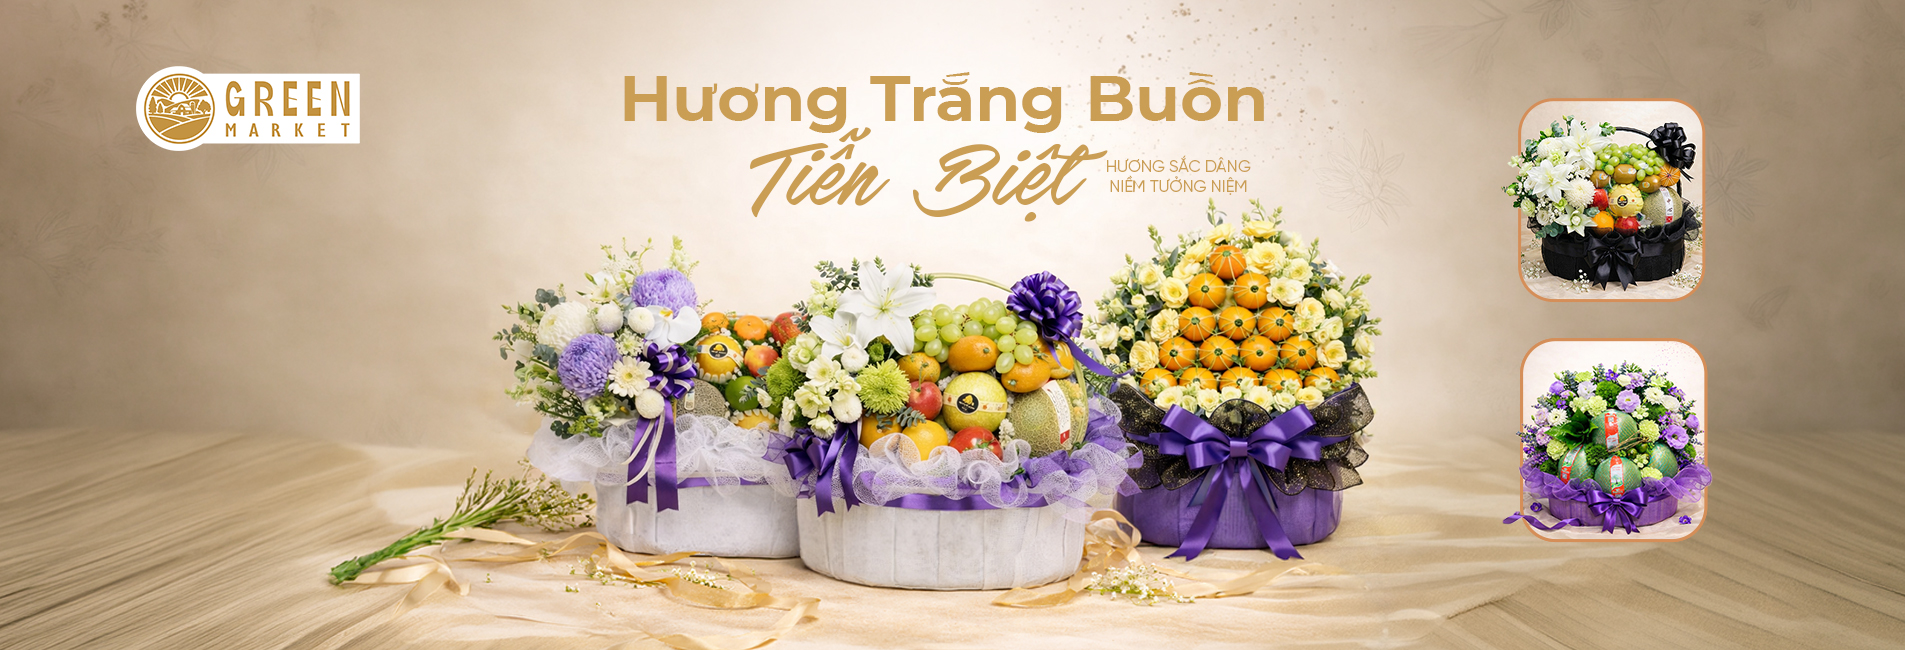
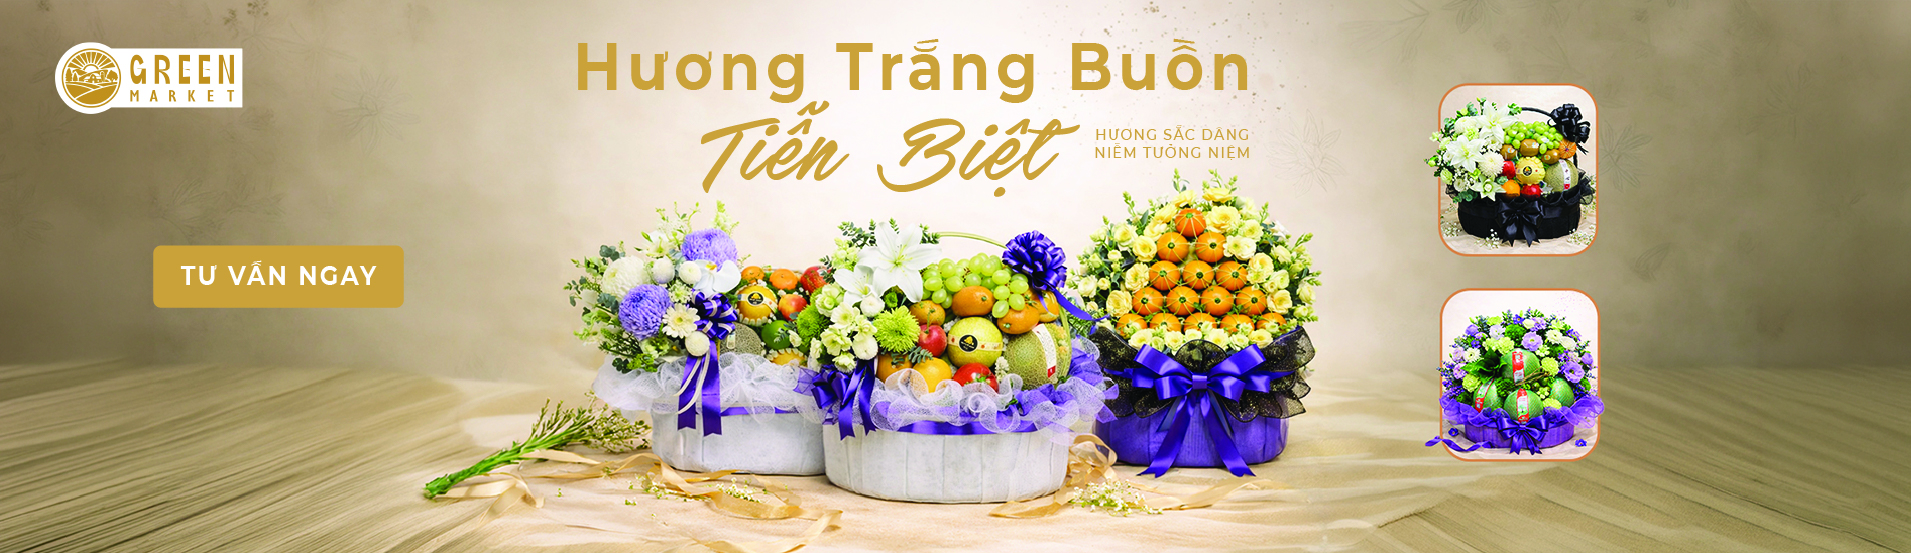
update img cover

diff --git a/index.html b/index.html
@@ -143,10 +143,12 @@
                         </div> -->
                     </a>
 
-                    <div class="carousel-item">
-                        <img src="https://images.unsplash.com/photo-1619566636858-adf3ef46400b?auto=format&fit=crop&w=1920&q=80"
-                            class="img-cover" alt="Banner 2" />
-                        <div class="absolute inset-0 bg-black/30 flex items-center">
+                    <a href="all-products.html?q=gio-qua-trai-cay" class="carousel-item" title="GREEN MARKET">
+                        <picture>
+                            <source media="(min-width: 768px)" srcset="./images/cover-trao-yeu-thuong-large.jpg">
+                            <img src="./images/cover-trao-yeu-thuong-mb.jpg" alt="Cover 1" class="w-full h-full object-cover">
+                        </picture>
+                        <!-- <div class="absolute inset-0 bg-black/30 flex items-center">
                             <div class="max-w-7xl mx-auto px-16 w-full flex justify-end">
                                 <div class="max-w-lg text-right">
                                     <h2
@@ -162,8 +164,9 @@
                                     </button>
                                 </div>
                             </div>
-                        </div>
-                    </div>
+                        </div> -->
+                    </a>
+
                     <div class="carousel-item">
                         <img src="https://images.unsplash.com/photo-1550258987-190a2d41a8ba?auto=format&fit=crop&w=1920&q=80"
                             class="img-cover" alt="Banner 3" />
